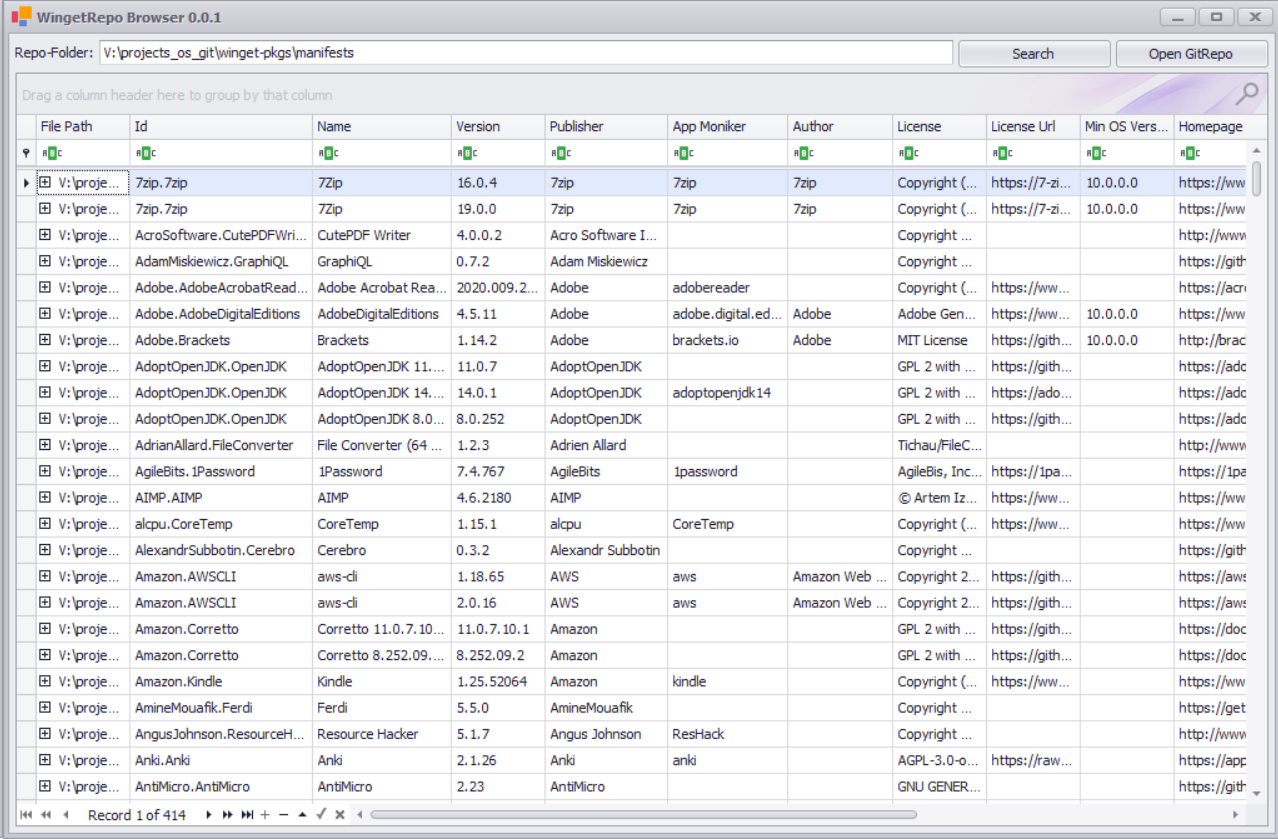
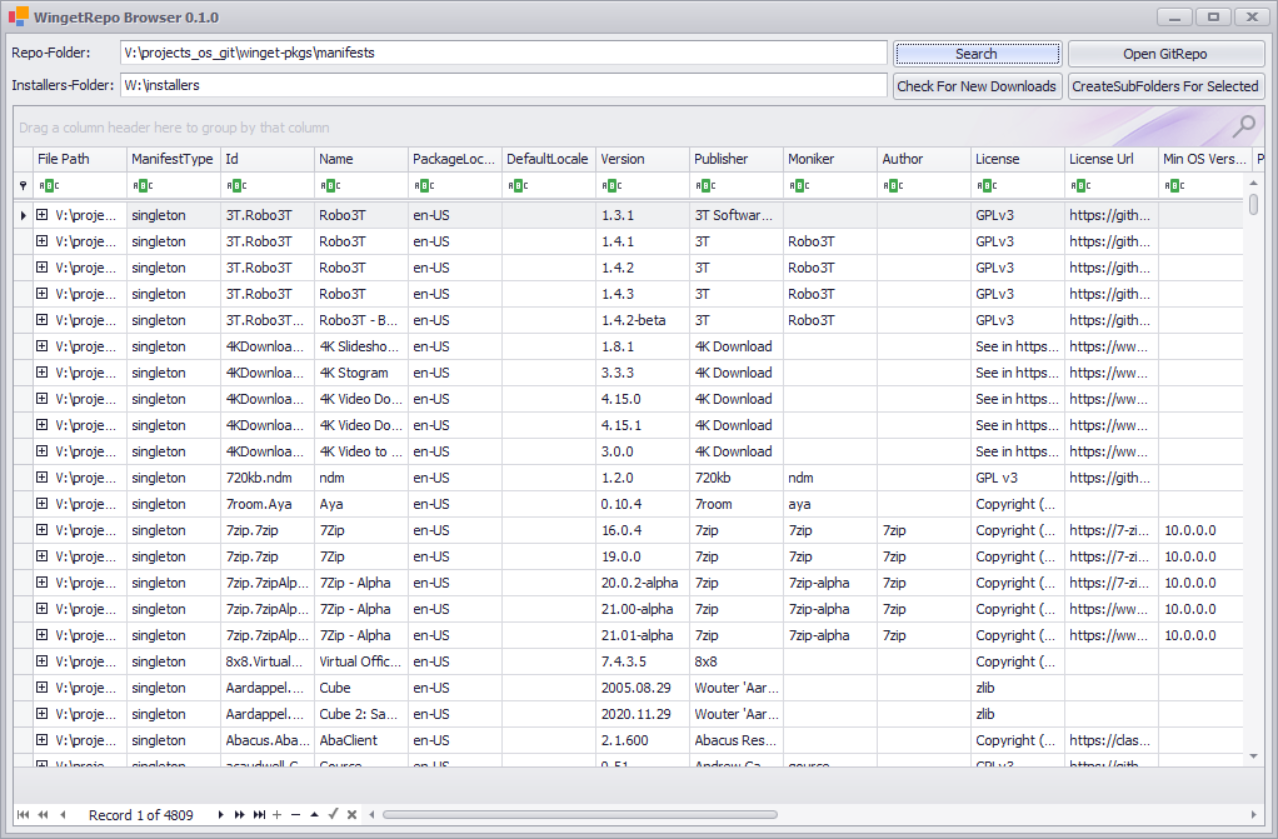
new screenshot and improved readme

diff --git a/README.md b/README.md
@@ -3,6 +3,9 @@ A graphical (GUI) browser for the winget package repository
 
 Microsoft is creating a new Windows Package Manager CLI (aka winget) which is based on a [Git repository](https://github.com/microsoft/winget-pkgs) that contains yaml-based package descriptions. They have stated that there will be no 'gallery' to browse through the available packages, so I have created a little WinForms Application to fill this gap. It uses a DevExpress GridControl, which provides powerful [search, sort and filtering features.](https://docs.devexpress.com/WindowsForms/833/controls-and-libraries/data-grid/end-user-capabilities)
 
+:warning: Winget changed its manifest schema to v1.0.0 - you need to use WingetRepoBrowser version 0.1.0 or higher.
+
+
 ![ApplicationScreenshot](/screenshot.png)
 
 **Usage:**
@@ -25,3 +28,15 @@ If you don't like the fact that the subfolders are named by the package-id, you 
 - fixed crash when the yaml-file contained a property that was missing in the datamodel
 - improved installer-cache downloads (exception handling, file naming)
 - added versions-count when grouping and group-count (number of unique packages)
+
+
+**Changes in v0.1.0**
+
+*Initial support for manifest schema v1.0.0*
+
+If you have downloaded installers to a folder with WingetRepoBrowser, you should delete all .yaml-files in that folder or rename them with PowerShell e.g.:
+
+>Get-ChildItem -Filter *.yaml -Recurse -Path W:\installers | Rename-Item -NewName {$_.name -replace '.yaml','.yaml.old' }
+
+
+Downloading is currently only supported for 'singleton' manifests that don't have the PackageVersion 'latest'.
